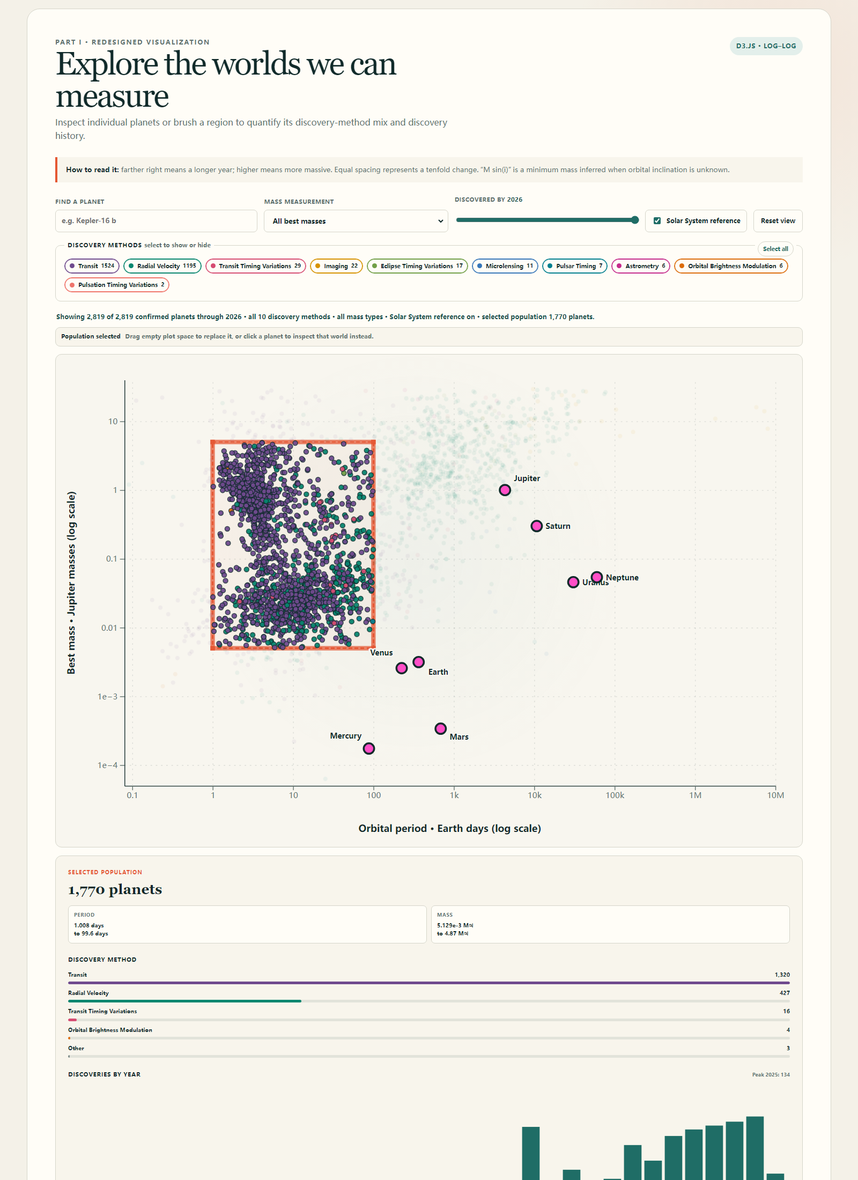
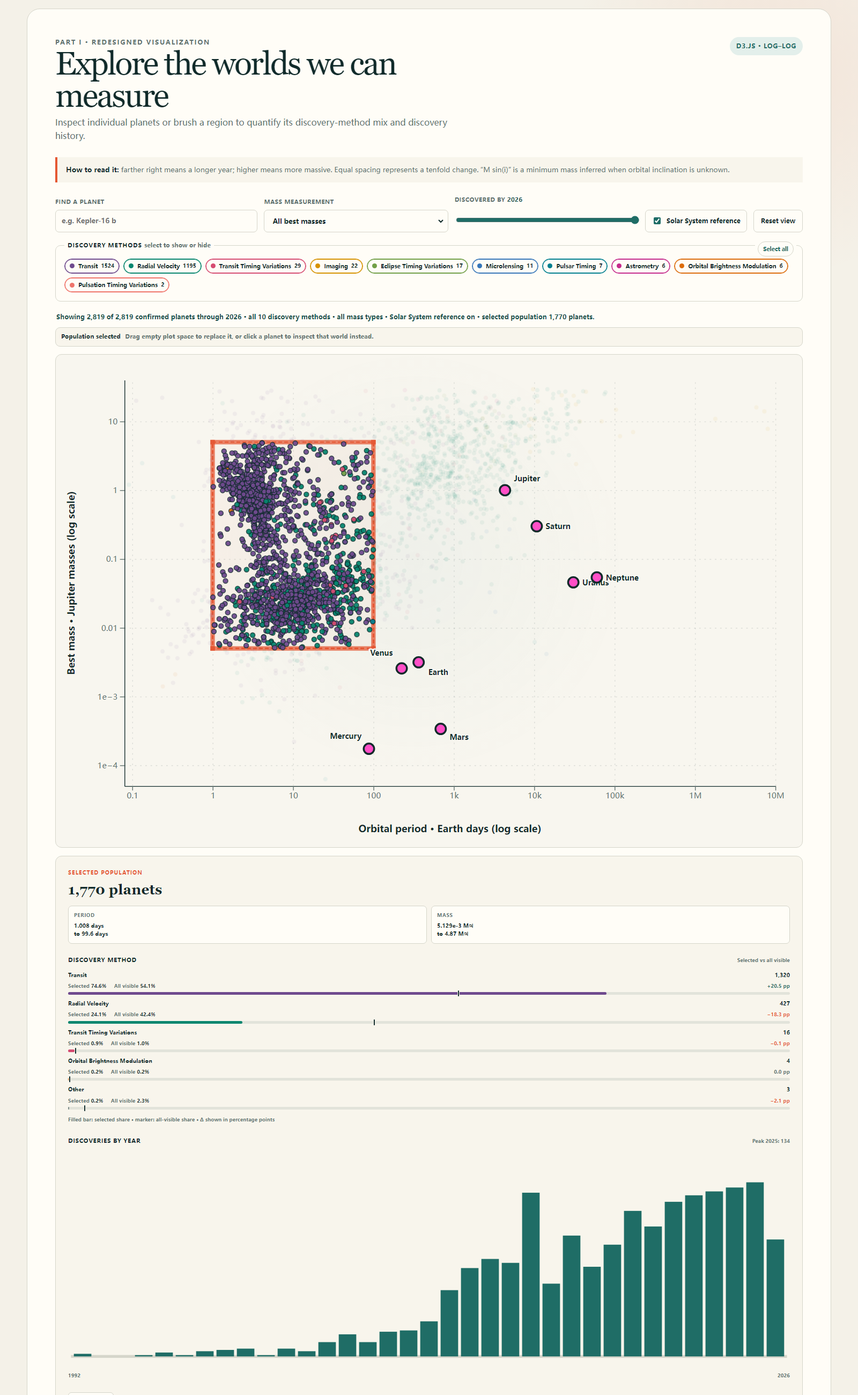
Finalize linked exoplanet population analysis

diff --git a/Visualization-Critique-and-Redesign/report.html b/Visualization-Critique-and-Redesign/report.html
@@ -3,8 +3,8 @@
 <head>
     <meta charset="UTF-8">
     <meta name="viewport" content="width=device-width, initial-scale=1.0">
-    <meta name="description" content="Report for the NASA exoplanet mass–period visualization critique and redesign.">
-    <title>Exoplanet Mass–Period Report · STATS 401</title>
+    <meta name="description" content="Report for the NASA exoplanet mass-period visualization critique and redesign.">
+    <title>Exoplanet Mass-Period Report · STATS 401</title>
     <link rel="stylesheet" href="../css/style.css">
 </head>
 <body>
@@ -20,7 +20,7 @@
         <header class="simple-report-header">
             <p class="eyebrow">Visualization Critique and Redesign</p>
             <h1>Project report.</h1>
-            <p class="lead">NASA Exoplanet Mass–Period Space · 747 words</p>
+            <p class="lead">NASA Exoplanet Mass-Period Space · 747 words</p>
             <nav class="project-tabs" aria-label="Individual project pages">
                 <a href="index.html">Visualization</a>
                 <a class="is-active" href="report.html" aria-current="page">Report</a>
@@ -31,7 +31,7 @@
             <section aria-labelledby="report-context">
                 <h2 id="report-context">Original visualization and context</h2>
                 <p>
-                    NASA’s “Planet Mass or Mass*sin(i) vs Orbital Period” scatterplot summarizes confirmed exoplanets with both quantities available. Horizontal position shows orbital period in days; vertical position shows best mass in Jupiter masses. Both axes are logarithmic. Color and shape identify discovery method, while eight outlined points locate the Solar System planets. The intended message is that known planets occupy an enormous and structured parameter space, and that detection methods populate different regions of it.
+                    NASA's “Planet Mass or Mass*sin(i) vs Orbital Period” scatterplot summarizes confirmed exoplanets with both quantities available. Horizontal position shows orbital period in days; vertical position shows best mass in Jupiter masses. Both axes are logarithmic. Color and shape identify discovery method, while eight outlined points locate the Solar System planets. The intended message is that known planets occupy an enormous and structured parameter space, and that detection methods populate different regions of it.
                 </p>
                 <p>
                     The audience includes astronomers, students, science communicators, and curious members of the public. They should be able to locate clusters and outliers, compare discovery methods, judge orders of magnitude, and relate unfamiliar worlds to Earth, Jupiter, and their neighbors. The chart is therefore both a scientific overview and presentation material rather than a tool for estimating planet occurrence rates.
@@ -54,10 +54,10 @@
             <section aria-labelledby="report-rationale">
                 <h2 id="report-rationale">Redesign rationale</h2>
                 <p>
-                    The redesign first uses small semi-transparent circles and moves the legend outside the plotting rectangle as a bank of direct filters. Counts reveal the severe category imbalance, and selecting methods removes occlusion rather than merely recoloring it. However, opacity and filters still make a dense cluster difficult to characterize quantitatively. The redesign therefore introduces linked aggregation: users can brush any region of mass–period space and immediately see its exact population, discovery-method composition, and discoveries by year. Marks outside the selection recede while the selected population remains prominent. This converts an uncertain visual judgment—“this area looks dense”—into a quantitative comparison. A colorblind-conscious palette, explicit selected states, text labels, and keyboard-operable controls reduce dependence on color alone.
+                    The redesign first uses small semi-transparent circles and moves the legend outside the plotting rectangle as a bank of direct filters. Counts reveal the severe category imbalance, and selecting methods removes occlusion rather than merely recoloring it. However, opacity and filters still make a dense cluster difficult to characterize quantitatively. The redesign therefore introduces linked aggregation: users can brush any region of mass-period space and immediately see its exact population, discovery-method composition compared with all visible planets, and discoveries by year. Marks outside the selection recede while the selected population remains prominent. This converts an uncertain visual judgment—“this area looks dense”—into a quantitative comparison. A colorblind-conscious palette, explicit selected states, text labels, and keyboard-operable controls reduce dependence on color alone.
                 </p>
                 <p>
-                    Second, details appear on demand. Hover, click, search, or keyboard navigation reveals the planet name, period, mass in Jupiter and Earth units, uncertainty, mass provenance, discovery method, year, and facility. Selecting a planet draws its available uncertainty intervals directly on the plot. The explanatory note defines log spacing and M sin(i), addressing the original’s most consequential technical ambiguity without placing thousands of labels on the chart.
+                    Second, details appear on demand. Hover, click, search, or keyboard navigation reveals the planet name, period, mass in Jupiter and Earth units, uncertainty, mass provenance, discovery method, year, and facility. Selecting a planet draws its available uncertainty intervals directly on the plot. The explanatory note defines log spacing and M sin(i), addressing the original's most consequential technical ambiguity without placing thousands of labels on the chart.
                 </p>
                 <p>
                     Third, Solar System planets occupy a dedicated foreground layer with full names and a visibility toggle. They remain unmistakable reference points but no longer compete with the method legend. A discovery-year slider keeps axes fixed while filtering the population, making change comparable across time. Search and mass-provenance controls support targeted lookup and honest comparison of different measurement types. Each interaction is tied to an intended task rather than added for novelty.
@@ -77,11 +77,11 @@
             <section aria-labelledby="report-figures">
                 <h2 id="report-figures">Figures</h2>
                 <figure>
-                    <img src="assets/nasa_exoplanet_mass_period.png" width="5750" height="3500" alt="Original NASA mass–period scatterplot.">
+                    <img src="assets/nasa_exoplanet_mass_period.png" width="5750" height="3500" alt="Original NASA mass-period scatterplot.">
                     <figcaption>Figure 1. Original NASA Exoplanet Archive visualization, dated September 25, 2026.</figcaption>
                 </figure>
                 <figure>
-                    <img src="assets/exoplanet_redesign.png" width="1600" height="2200" alt="Redesigned interactive exoplanet mass–period visualization with a brushed population summary below the chart.">
+                    <img src="assets/exoplanet_redesign.png" width="1600" height="2600" alt="Redesigned interactive exoplanet mass-period visualization with a brushed population summary comparing the selection with all visible planets.">
                     <figcaption>Figure 2. D3.js redesign using the September 27, 2026 data snapshot.</figcaption>
                 </figure>
             </section>

diff --git a/Visualization-Critique-and-Redesign/project.js b/Visualization-Critique-and-Redesign/project.js
@@ -499,27 +499,59 @@
 
         const periodExtent = d3.extent(planets, (planet) => planet.pl_orbper);
         const massExtent = d3.extent(planets, (planet) => planet.pl_bmassj);
-        const counts = Array.from(d3.rollup(planets, (values) => values.length, (planet) => planet.discoverymethod))
+        const selectedCounts = d3.rollup(planets, (values) => values.length, (planet) => planet.discoverymethod);
+        const visibleCounts = d3.rollup(visiblePlanets, (values) => values.length, (planet) => planet.discoverymethod);
+        const counts = Array.from(selectedCounts)
             .sort((a, b) => d3.descending(a[1], b[1]));
-        const rows = counts.slice(0, 4).map(([method, count]) => ({ method, count, color: methodColor(method) }));
+        const leadingMethods = new Set(counts.slice(0, 4).map(([method]) => method));
+        const rows = counts.slice(0, 4).map(([method, count]) => ({
+            method,
+            count,
+            visibleCount: visibleCounts.get(method) || 0,
+            color: methodColor(method)
+        }));
+        const otherMethods = Array.from(visibleCounts.keys()).filter((method) => !leadingMethods.has(method));
 
-        if (counts.length > 4) {
+        if (otherMethods.length) {
             rows.push({
                 method: "Other",
-                count: d3.sum(counts.slice(4), ([, count]) => count),
+                count: d3.sum(otherMethods, (method) => selectedCounts.get(method) || 0),
+                visibleCount: d3.sum(otherMethods, (method) => visibleCounts.get(method) || 0),
                 color: "#7f8d89"
             });
         }
 
-        const maxCount = d3.max(rows, (row) => row.count) || 1;
         const methodRows = rows.map((row) => {
-            const width = (row.count / maxCount) * 100;
-            const share = (row.count / planets.length) * 100;
+            const selectedShare = (row.count / planets.length) * 100;
+            const visibleShare = (row.visibleCount / visiblePlanets.length) * 100;
+            const difference = selectedShare - visibleShare;
+            const isNeutral = Math.abs(difference) <= 0.05;
+            const differenceLabel = isNeutral
+                ? "0.0 pp"
+                : `${difference > 0 ? "+" : ""}${d3.format(".1f")(difference)} pp`;
+            const differenceClass = difference > 0.05
+                ? "is-positive"
+                : difference < -0.05
+                    ? "is-negative"
+                    : "is-neutral";
+            const comparisonPhrase = difference > 0.05
+                ? `${d3.format(".1f")(difference)} percentage points higher`
+                : difference < -0.05
+                    ? `${d3.format(".1f")(Math.abs(difference))} percentage points lower`
+                    : "the same share";
             return `
-                <div class="population-method-row" aria-label="${escapeHtml(row.method)}: ${row.count} planets, ${d3.format(".1f")(share)} percent">
+                <div class="population-method-row" aria-label="${escapeHtml(row.method)}: ${row.count} selected planets, ${d3.format(".1f")(selectedShare)} percent of the selection versus ${d3.format(".1f")(visibleShare)} percent of all visible planets, ${comparisonPhrase}">
                     <span>${escapeHtml(row.method)}</span>
                     <strong>${row.count.toLocaleString()}</strong>
-                    <i><b style="--population-width:${width}%;--population-color:${row.color}"></b></i>
+                    <div class="population-method-comparison">
+                        <span>Selected <b>${d3.format(".1f")(selectedShare)}%</b></span>
+                        <span>All visible <b>${d3.format(".1f")(visibleShare)}%</b></span>
+                        <em class="${differenceClass}">${differenceLabel}</em>
+                    </div>
+                    <i aria-hidden="true">
+                        <b style="--population-width:${selectedShare}%;--population-color:${row.color}"></b>
+                        <span style="--overall-position:${visibleShare}%"></span>
+                    </i>
                 </div>`;
         }).join("");
 
@@ -531,8 +563,12 @@
                 <div><span>Mass</span><strong>${formatJupiterMass(massExtent[0])}<br>to ${formatJupiterMass(massExtent[1])}</strong></div>
             </div>
             <section class="population-methods" aria-labelledby="population-methods-heading">
-                <h4 id="population-methods-heading">Discovery method</h4>
+                <div class="population-section-heading">
+                    <h4 id="population-methods-heading">Discovery method</h4>
+                    <span>Selected vs all visible</span>
+                </div>
                 ${methodRows}
+                <p class="population-comparison-note">Filled bar: selected share · marker: all-visible share · Δ shown in percentage points</p>
             </section>
             <section class="population-years" aria-labelledby="population-years-heading">
                 <div class="population-section-heading">

diff --git a/Visualization-Critique-and-Redesign/index.html b/Visualization-Critique-and-Redesign/index.html
@@ -3,8 +3,8 @@
 <head>
     <meta charset="UTF-8">
     <meta name="viewport" content="width=device-width, initial-scale=1.0">
-    <meta name="description" content="A visualization critique and D3.js redesign of NASA's exoplanet mass–period plot.">
-    <title>Exoplanet Mass–Period Redesign · STATS 401</title>
+    <meta name="description" content="A visualization critique and D3.js redesign of NASA's exoplanet mass-period plot.">
+    <title>Exoplanet Mass-Period Redesign · STATS 401</title>
     <link rel="stylesheet" href="../css/style.css">
 </head>
 <body>
@@ -19,9 +19,9 @@
     <main>
         <section class="lab-intro project-intro">
             <p class="eyebrow">Visualization Critique and Redesign</p>
-            <h1>Exoplanets in <span>mass–period space.</span></h1>
+            <h1>Exoplanets in <span>mass-period space.</span></h1>
             <p class="lead">
-                NASA’s original view reveals the extraordinary range of known worlds.
+                NASA's original view reveals the extraordinary range of known worlds.
                 This redesign makes its discovery patterns, measurement differences,
                 and Solar System reference easier to inspect.
             </p>
@@ -36,7 +36,6 @@
                 <div>
                     <p class="eyebrow">Part I · Original visualization</p>
                     <h2 id="original-heading">Planet Mass vs. Orbital Period</h2>
-                    <p>Confirmed planets are positioned on logarithmic axes and grouped by discovery method.</p>
                 </div>
                 <a class="source-link" href="https://exoplanetarchive.ipac.caltech.edu/exoplanetplots/" target="_blank" rel="noreferrer">NASA source ↗</a>
             </div>
@@ -57,12 +56,7 @@
                     <h2 id="redesign-heading">Explore the worlds we can measure</h2>
                     <p>Inspect individual planets or brush a region to quantify its discovery-method mix and discovery history.</p>
                 </div>
-                <span class="chart-note">D3.js · log–log</span>
-            </div>
-
-            <div class="project-chart-note" role="note">
-                <strong>How to read it:</strong> farther right means a longer year; higher means more massive.
-                Equal spacing represents a tenfold change. “M sin(i)” is a minimum mass inferred when orbital inclination is unknown.
+                <span class="chart-note">D3.js · log-log</span>
             </div>
 
             <form class="exoplanet-controls" id="exoplanet-controls">

diff --git a/css/style.css b/css/style.css
@@ -1064,10 +1064,44 @@ footer p {
     font-variant-numeric: tabular-nums;
 }
 
+.population-method-comparison {
+    display: flex;
+    grid-column: 1 / -1;
+    align-items: baseline;
+    gap: 5px 14px;
+    color: var(--muted);
+    font-size: 0.59rem;
+    font-weight: 750;
+}
+
+.population-method-comparison b {
+    color: var(--ink);
+    font-variant-numeric: tabular-nums;
+}
+
+.population-method-comparison em {
+    margin-left: auto;
+    font-style: normal;
+    font-variant-numeric: tabular-nums;
+    font-weight: 900;
+}
+
+.population-method-comparison em.is-positive {
+    color: var(--teal);
+}
+
+.population-method-comparison em.is-negative {
+    color: var(--accent);
+}
+
+.population-method-comparison em.is-neutral {
+    color: var(--muted);
+}
+
 .population-method-row > i {
+    position: relative;
     height: 5px;
     grid-column: 1 / -1;
-    overflow: hidden;
     border-radius: 999px;
     background: rgba(96, 113, 110, 0.14);
 }
@@ -1078,6 +1112,25 @@ footer p {
     display: block;
     border-radius: inherit;
     background: var(--population-color);
+}
+
+.population-method-row > i > span {
+    position: absolute;
+    top: -3px;
+    left: var(--overall-position);
+    width: 2px;
+    height: 11px;
+    border-radius: 1px;
+    background: var(--ink);
+    box-shadow: 0 0 0 1px #f8f5ec;
+    transform: translateX(-50%);
+}
+
+.population-comparison-note {
+    margin: 12px 0 0;
+    color: var(--muted);
+    font-size: 0.58rem;
+    font-weight: 700;
 }
 
 .population-section-heading {

diff --git a/Visualization-Critique-and-Redesign/report.md b/Visualization-Critique-and-Redesign/report.md
@@ -4,7 +4,7 @@
 
 ### Original visualization and context
 
-NASA’s “Planet Mass or Mass*sin(i) vs Orbital Period” scatterplot summarizes confirmed exoplanets with both quantities available. Horizontal position shows orbital period in days; vertical position shows best mass in Jupiter masses. Both axes are logarithmic. Color and shape identify discovery method, while eight outlined points locate the Solar System planets. The intended message is that known planets occupy an enormous and structured parameter space, and that detection methods populate different regions of it.
+NASA's "Planet Mass or Mass*sin(i) vs Orbital Period" scatterplot summarizes confirmed exoplanets with both quantities available. Horizontal position shows orbital period in days; vertical position shows best mass in Jupiter masses. Both axes are logarithmic. Color and shape identify discovery method, while eight outlined points locate the Solar System planets. The intended message is that known planets occupy an enormous and structured parameter space, and that detection methods populate different regions of it.
 
 The audience includes astronomers, students, science communicators, and curious members of the public. They should be able to locate clusters and outliers, compare discovery methods, judge orders of magnitude, and relate unfamiliar worlds to Earth, Jupiter, and their neighbors. The chart is therefore both a scientific overview and presentation material rather than a tool for estimating planet occurrence rates.
 
@@ -14,13 +14,13 @@ Two choices work especially well. First, position on aligned axes is an accurate
 
 Three problems limit those strengths. The largest is overplotting. More than 2,700 Transit and Radial Velocity planets use opaque marks, hiding local density and covering rarer methods. The oversized eleven-item legend then occupies the lower-right data region and requires repeated lookup between symbols and labels. Color and shape together distinguish many categories, but several tiny symbols remain difficult to decode and compare.
 
-The chart also asks non-specialists to interpret “Mass or Mass*sin(i)” without explaining that M sin(i) is a lower bound caused by unknown inclination. Abbreviated Solar System labels such as “Me” and “Ma” slow identification. Finally, the static image cannot identify a planet, expose uncertainty, isolate a method, or reveal how discoveries accumulated over time. These are task failures rather than merely stylistic objections: overlap obstructs comparison, technical ambiguity risks incorrect inference, and absent details prevent viewers from validating apparent outliers.
+The chart also asks non-specialists to interpret "Mass or Mass*sin(i)" without explaining that M sin(i) is a lower bound caused by unknown inclination. Abbreviated Solar System labels such as "Me" and "Ma" slow identification. Finally, the static image cannot identify a planet, expose uncertainty, isolate a method, or reveal how discoveries accumulated over time. These are task failures rather than merely stylistic objections: overlap obstructs comparison, technical ambiguity risks incorrect inference, and absent details prevent viewers from validating apparent outliers.
 
 ### Redesign rationale
 
-The redesign first uses small semi-transparent circles and moves the legend outside the plotting rectangle as a bank of direct filters. Counts reveal the severe category imbalance, and selecting methods removes occlusion rather than merely recoloring it. However, opacity and filters still make a dense cluster difficult to characterize quantitatively. The redesign therefore introduces linked aggregation: users can brush any region of mass–period space and immediately see its exact population, discovery-method composition, and discoveries by year. Marks outside the selection recede while the selected population remains prominent. This converts an uncertain visual judgment—“this area looks dense”—into a quantitative comparison. A colorblind-conscious palette, explicit selected states, text labels, and keyboard-operable controls reduce dependence on color alone.
+The redesign first uses small semi-transparent circles and moves the legend outside the plotting rectangle as a bank of direct filters. Counts reveal the severe category imbalance, and selecting methods removes occlusion rather than merely recoloring it. However, opacity and filters still make a dense cluster difficult to characterize quantitatively. The redesign therefore introduces linked aggregation: users can brush any region of mass–period space and immediately see its exact population, discovery-method composition compared with all visible planets, and discoveries by year. Marks outside the selection recede while the selected population remains prominent. This converts an uncertain visual judgment—"this area looks dense"—into a quantitative comparison. A colorblind-conscious palette, explicit selected states, text labels, and keyboard-operable controls reduce dependence on color alone.
 
-Second, details appear on demand. Hover, click, search, or keyboard navigation reveals the planet name, period, mass in Jupiter and Earth units, uncertainty, mass provenance, discovery method, year, and facility. Selecting a planet draws its available uncertainty intervals directly on the plot. The explanatory note defines log spacing and M sin(i), addressing the original’s most consequential technical ambiguity without placing thousands of labels on the chart.
+Second, details appear on demand. Hover, click, search, or keyboard navigation reveals the planet name, period, mass in Jupiter and Earth units, uncertainty, mass provenance, discovery method, year, and facility. Selecting a planet draws its available uncertainty intervals directly on the plot. The explanatory note defines log spacing and M sin(i), addressing the original's most consequential technical ambiguity without placing thousands of labels on the chart.
 
 Third, Solar System planets occupy a dedicated foreground layer with full names and a visibility toggle. They remain unmistakable reference points but no longer compete with the method legend. A discovery-year slider keeps axes fixed while filtering the population, making change comparable across time. Search and mass-provenance controls support targeted lookup and honest comparison of different measurement types. Each interaction is tied to an intended task rather than added for novelty.
 
@@ -32,7 +32,7 @@ Important limitations remain. The dataset excludes confirmed planets missing eit
 
 ## Figures
 
-**Figure 1. Original visualization.** NASA Exoplanet Archive, “Planet Mass or Mass*sin(i) vs Orbital Period.” Source image dated September 25, 2026; retrieved September 27, 2026.
+**Figure 1. Original visualization.** NASA Exoplanet Archive, "Planet Mass or Mass*sin(i) vs Orbital Period." Source image dated September 25, 2026; retrieved September 27, 2026.
 
 ![Original NASA mass–period scatterplot](assets/nasa_exoplanet_mass_period.png)
 
@@ -42,8 +42,8 @@ Important limitations remain. The dataset excludes confirmed planets missing eit
 
 ## References
 
-1. NASA Exoplanet Archive. “Pre-generated Exoplanet Plots.” <https://exoplanetarchive.ipac.caltech.edu/exoplanetplots/>.
+1. NASA Exoplanet Archive. "Pre-generated Exoplanet Plots." <https://exoplanetarchive.ipac.caltech.edu/exoplanetplots/>.
 2. NASA Exoplanet Archive. *Planetary Systems Table*. DOI: [10.26133/NEA12](https://doi.org/10.26133/NEA12).
-3. NASA Exoplanet Archive. “Retrieving Exoplanet Archive Data With Table Access Protocol.” <https://exoplanetarchive.ipac.caltech.edu/docs/TAP/usingTAP.html>.
-4. NASA/JPL Solar System Dynamics. “Planetary Physical Parameters.” <https://ssd.jpl.nasa.gov/planets/phys_par.html>.
+3. NASA Exoplanet Archive. "Retrieving Exoplanet Archive Data With Table Access Protocol." <https://exoplanetarchive.ipac.caltech.edu/docs/TAP/usingTAP.html>.
+4. NASA/JPL Solar System Dynamics. "Planetary Physical Parameters." <https://ssd.jpl.nasa.gov/planets/phys_par.html>.
 5. Munzner, Tamara. *Visualization Analysis and Design*. CRC Press, 2014.

diff --git a/Visualization-Critique-and-Redesign/data/README.md b/Visualization-Critique-and-Redesign/data/README.md
@@ -1,14 +1,14 @@
-# Exoplanet mass–period data
+# Exoplanet mass-period data
 
-Retrieved on **2026-09-27** for the STATS 401 individual project. The committed files are a reproducible snapshot; NASA’s live archive changes as new planets and measurements are added.
+Retrieved on **2026-09-27** for the STATS 401 individual project. The committed files are a reproducible snapshot; NASA's live archive changes as new planets and measurements are added.
 
 ## Files
 
-- `exoplanets_mass_period.csv` — 2,819 confirmed planets from the NASA Exoplanet Archive Planetary Systems (`ps`) table. Every row uses the archive’s default parameter set and has both an orbital period and best-mass value.
-- `solar_system_planets.csv` — eight Solar System planets derived from JPL’s *Planetary Physical Parameters* table.
-- `jpl_planetary_physical_parameters.html` — the downloaded JPL source snapshot used for the Solar System conversion.
-- `download_data.ps1` — refreshes the NASA/JPL source files and rebuilds `solar_system_planets.csv`.
-- `../assets/nasa_exoplanet_mass_period.png` — local copy of NASA’s original visualization, whose printed date is 2026-09-25.
+- `exoplanets_mass_period.csv` - 2,819 confirmed planets from the NASA Exoplanet Archive Planetary Systems (`ps`) table. Every row uses the archive's default parameter set and has both an orbital period and best-mass value.
+- `solar_system_planets.csv` - eight Solar System planets derived from JPL's *Planetary Physical Parameters* table.
+- `jpl_planetary_physical_parameters.html` - the downloaded JPL source snapshot used for the Solar System conversion.
+- `download_data.ps1` - refreshes the NASA/JPL source files and rebuilds `solar_system_planets.csv`.
+- `../assets/nasa_exoplanet_mass_period.png` - local copy of NASA's original visualization, whose printed date is 2026-09-25.
 
 ## NASA Exoplanet Archive query
 
@@ -31,7 +31,7 @@ WHERE default_flag = 1
 ORDER BY pl_name
 ```
 
-The filter matches the archive’s description of its pre-generated plots: points are shown only when all parameters required by the plot have measured values. The original interactive chart uses `pl_orbper` for x, `pl_bmassj` for y, and `discoverymethod` for the categorical encoding.
+The filter matches the archive's description of its pre-generated plots: points are shown only when all parameters required by the plot have measured values. The original interactive chart uses `pl_orbper` for x, `pl_bmassj` for y, and `discoverymethod` for the categorical encoding.
 
 ## Field dictionary
 
@@ -55,11 +55,11 @@ The filter matches the archive’s description of its pre-generated plots: point
 
 Source: <https://ssd.jpl.nasa.gov/planets/phys_par.html>
 
-JPL reports mass in 10²⁴ kg and sidereal orbital period in years. The project converts values as follows:
+JPL reports mass in 10^24 kg and sidereal orbital period in years. The project converts values as follows:
 
 ```text
-orbital_period_days = sidereal_orbital_period_years × 365.25
-mass_jupiter = mass_1e24_kg ÷ 1898.125
+orbital_period_days = sidereal_orbital_period_years * 365.25
+mass_jupiter = mass_1e24_kg / 1898.125
 ```
 
 Only the eight planets are included, matching the original NASA plot. Pluto is not included because JPL classifies it as a dwarf planet.
